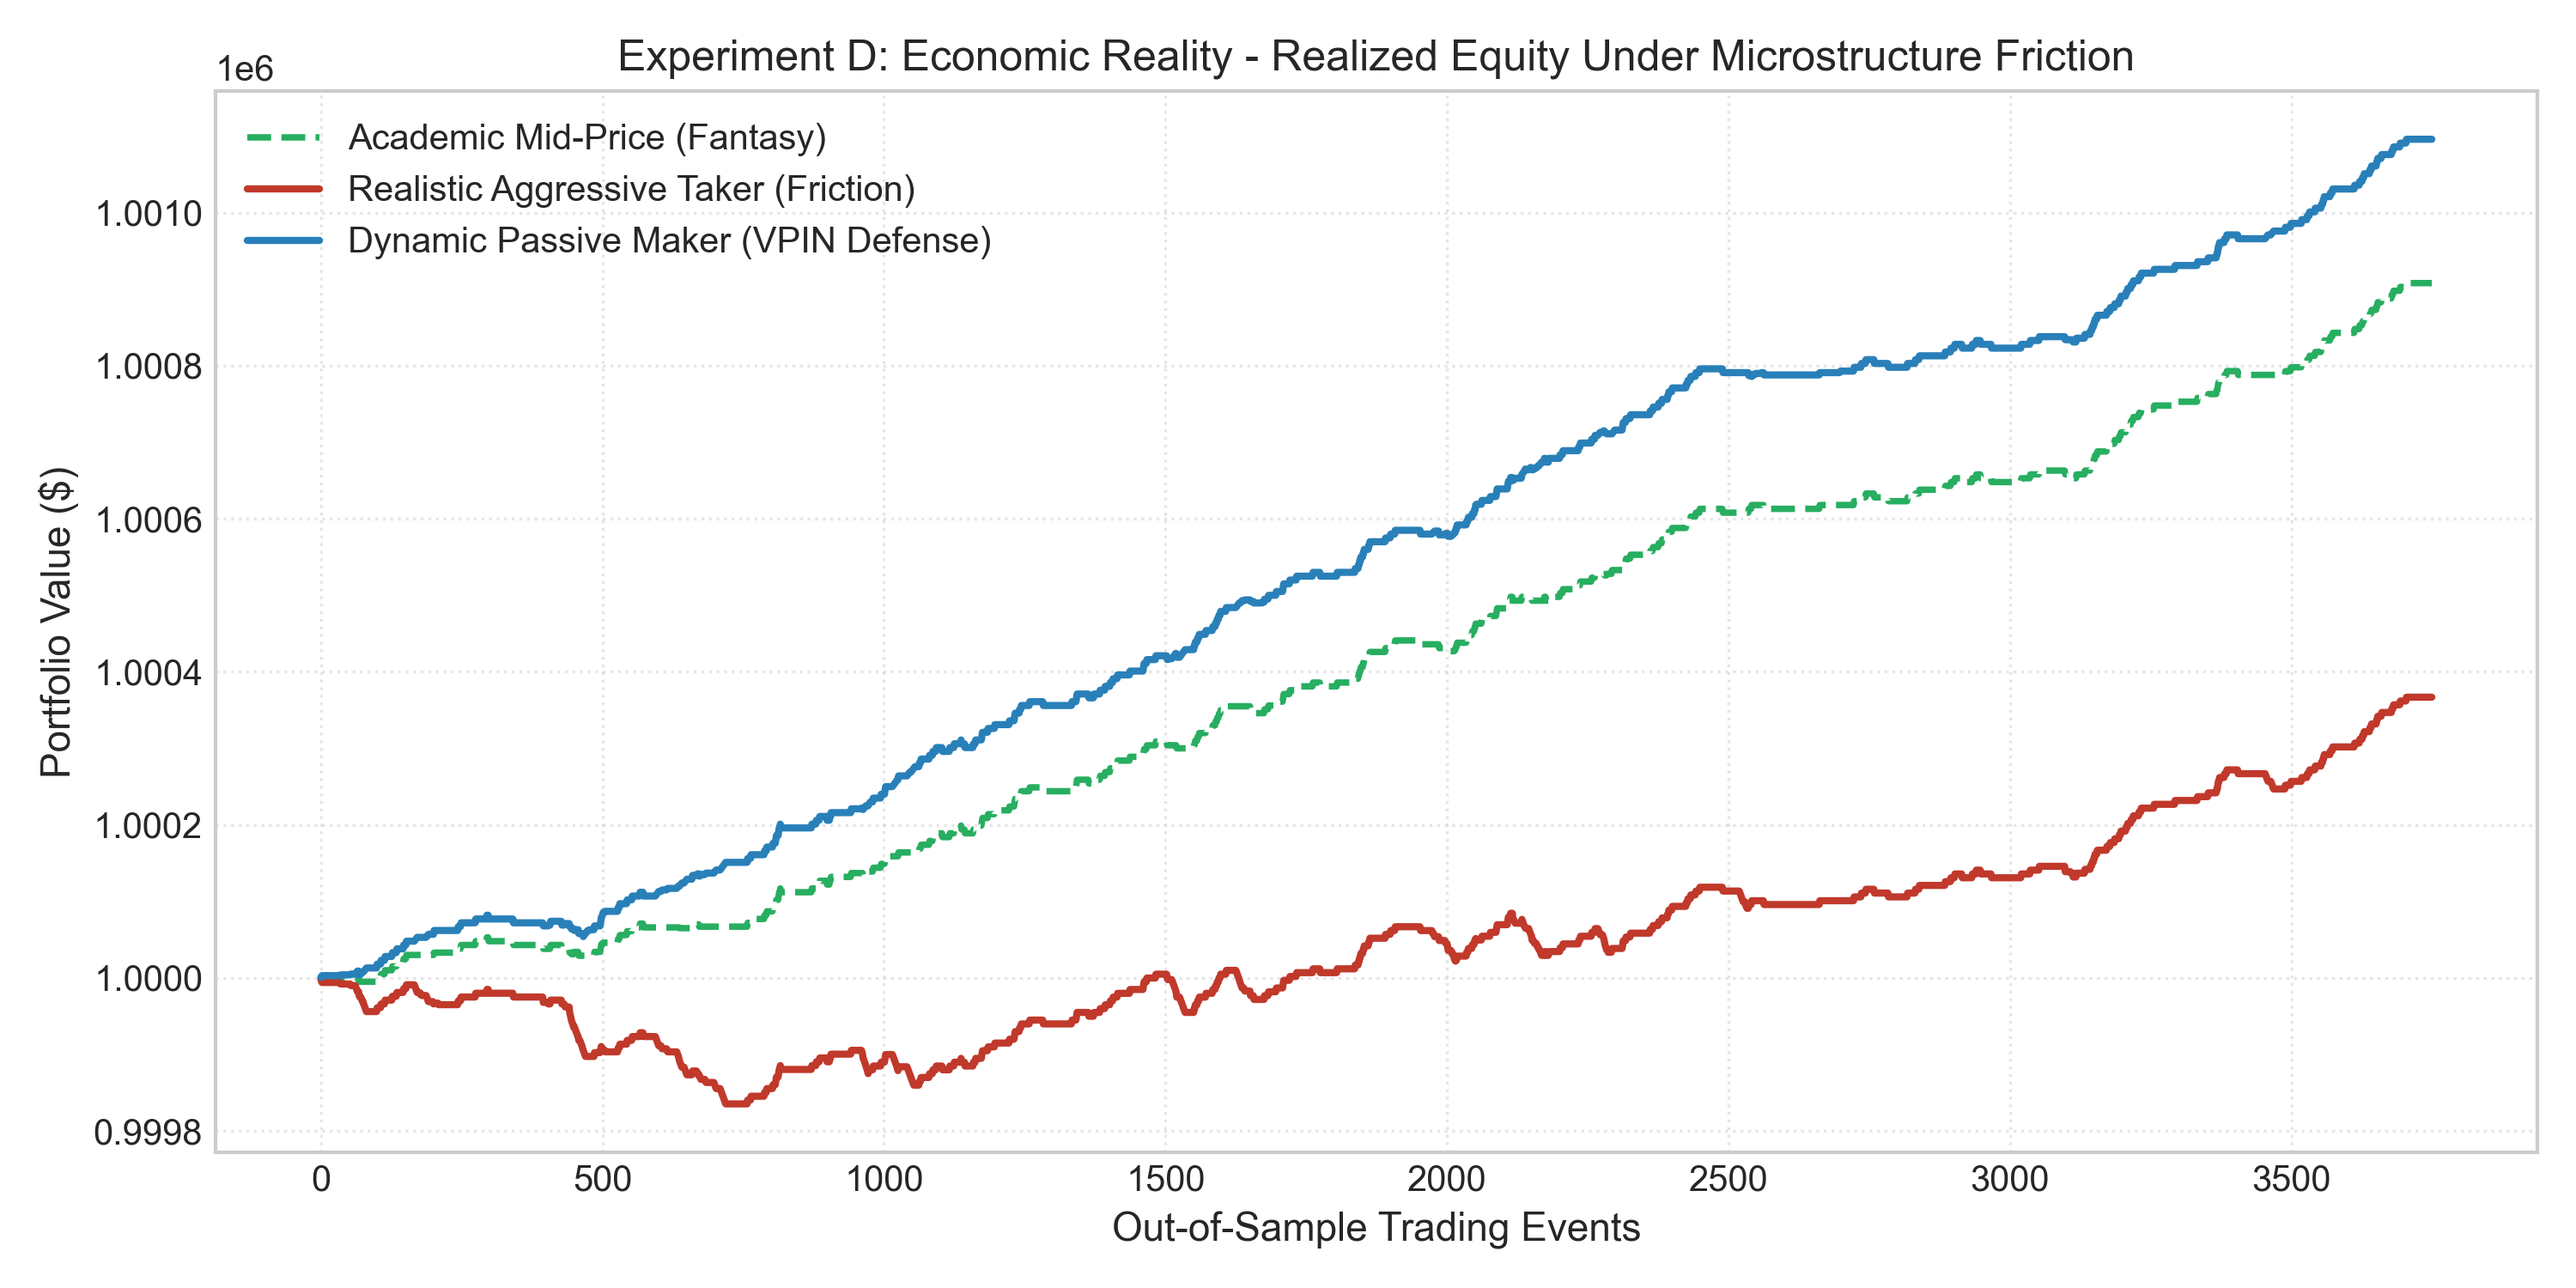
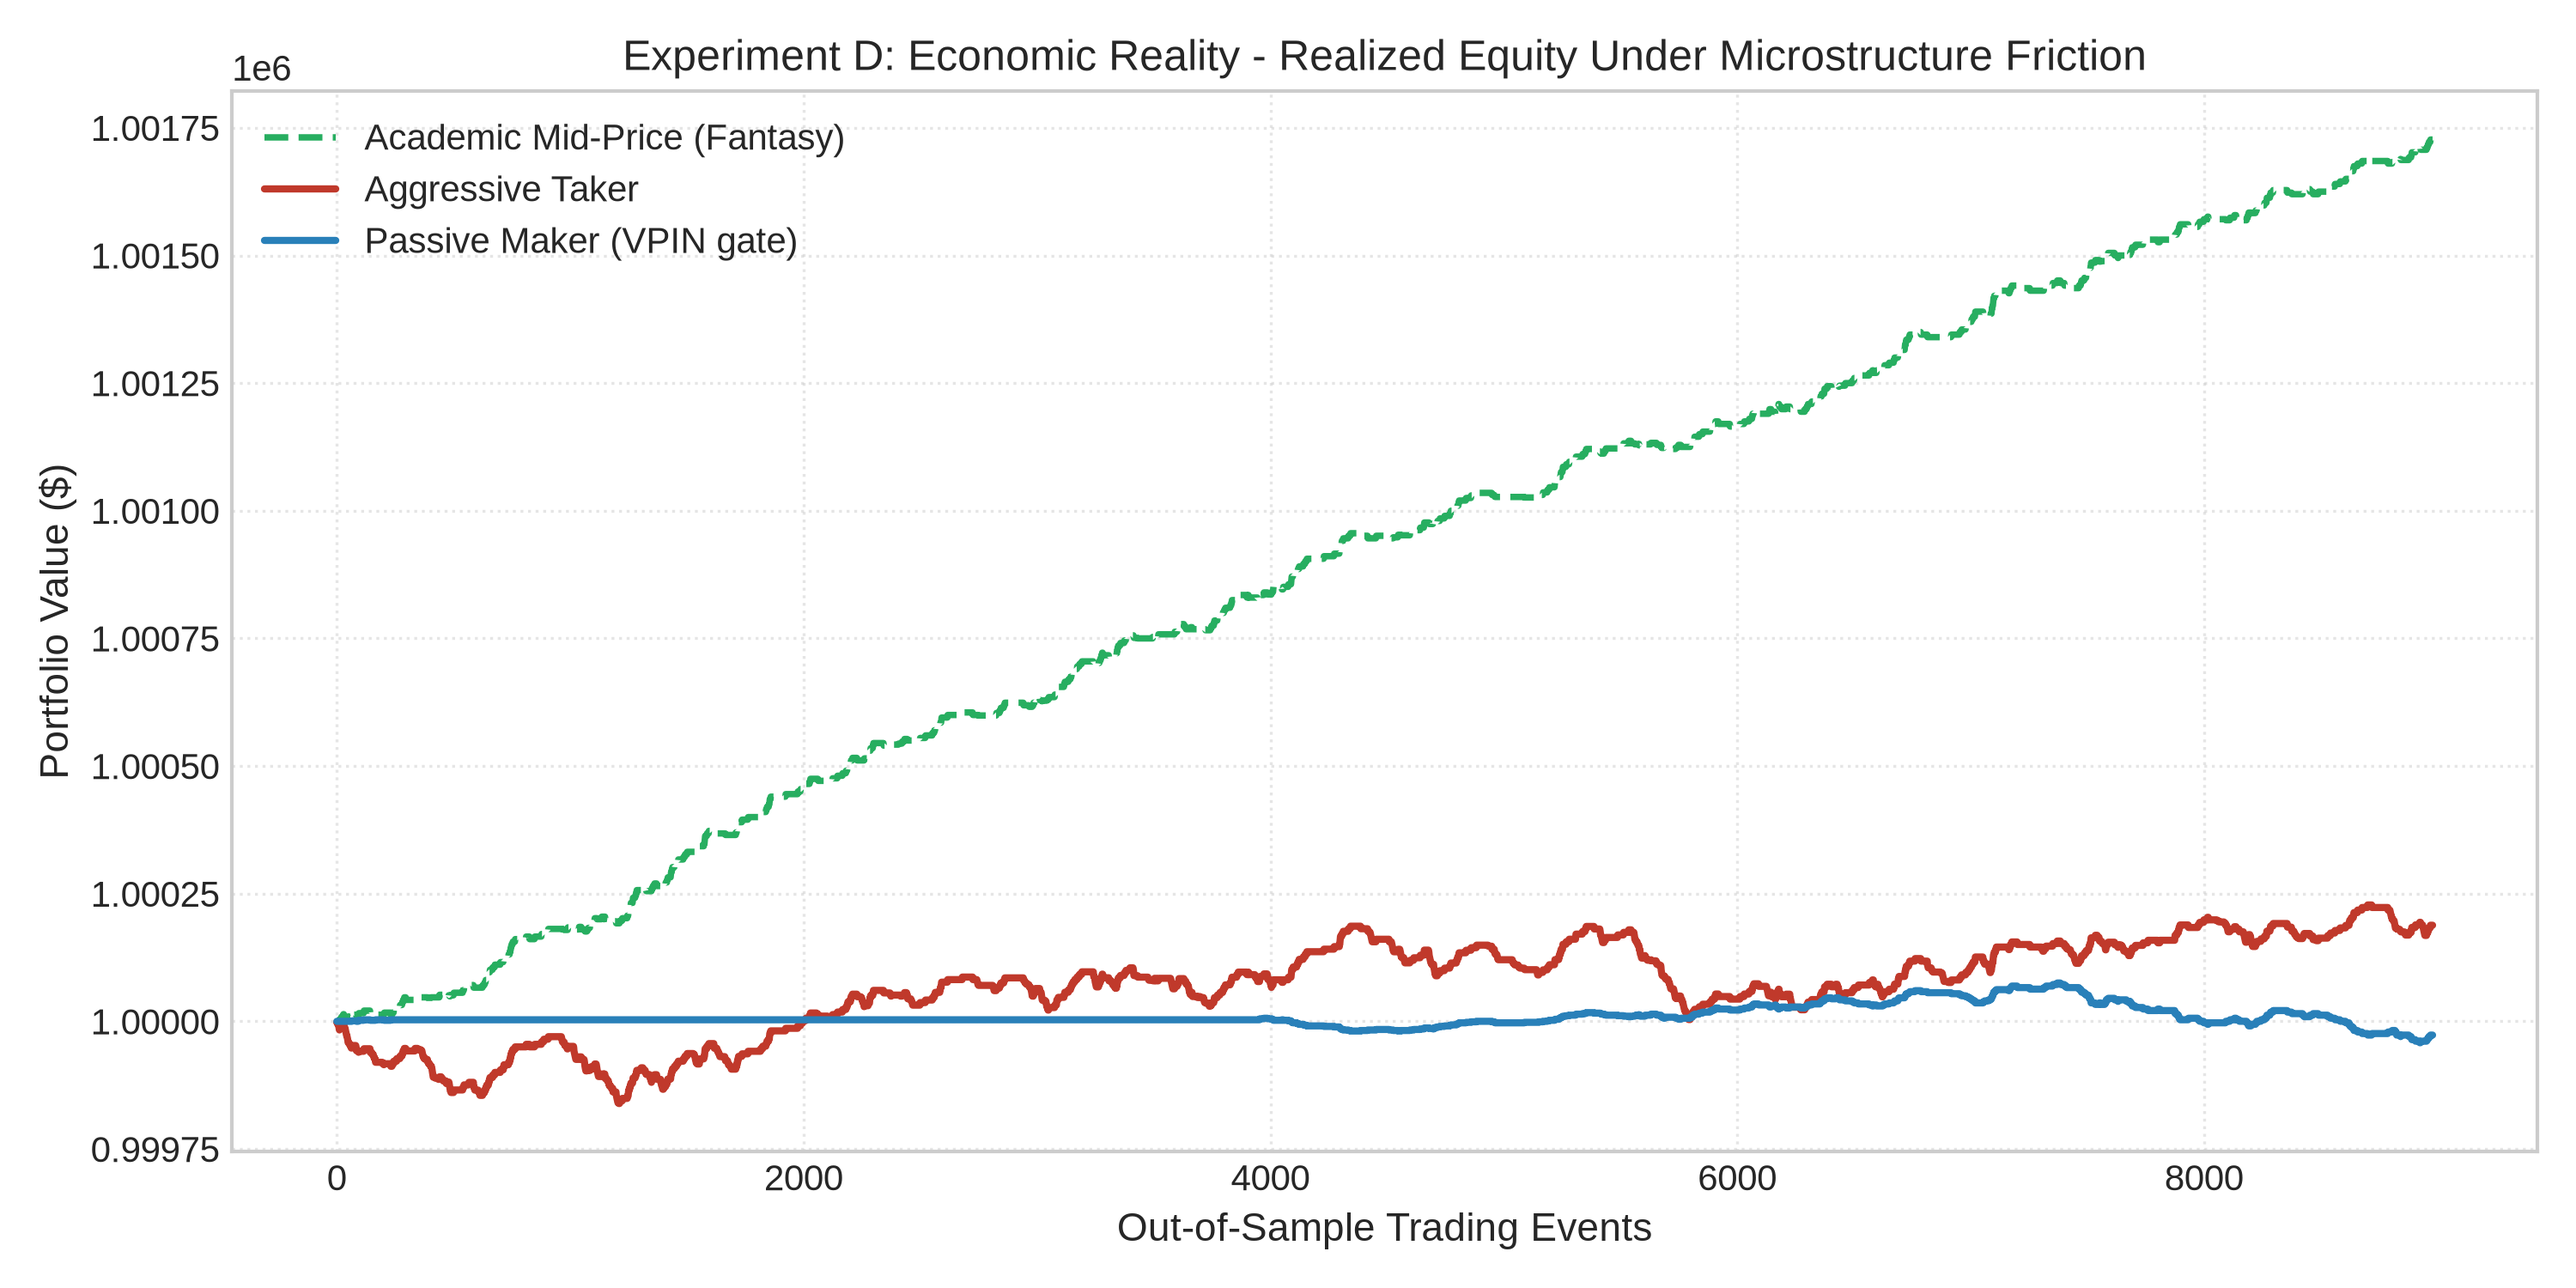
fix: regenerate Experiment D equity curves with the corrected passive-fill simulator
The old figure predated the trade-through fill fix and showed the passive
maker beating the fantasy regime. The new one is LightGBM on seed 0 and
matches the per-seed CSV (fantasy +$1,727, taker +$188, passive -$27).
Adds scripts/plot_exp_d_equity.py to redraw it on CPU.

diff --git a/scripts/plot_exp_d_equity.py b/scripts/plot_exp_d_equity.py
@@ -1,0 +1,39 @@
+"""Regenerate experiment_d_equity_curves.png with the current (fixed) simulator.
+Same LightGBM settings as Experiment A, seed 0, 60k events, k=20 (the README setup)."""
+import sys
+import numpy as np
+sys.path.insert(0, ".")
+from src.config import ARTIFACTS_DIR
+from src.experiments.common import prepare_data
+from src.experiments.common import generate_session
+from src.models.tabular_trees import LightGBMLOB
+from src.execution.simulator import ExecutionSimulator
+from src.execution.strategies import MicrostructureStrategyRunner
+from src.utils.visualization import plot_execution_equity_curves
+
+out = sys.argv[1] if len(sys.argv) > 1 else str(ARTIFACTS_DIR / "experiment_d_equity_curves.png")
+data = prepare_data(generate_session(0, 60000))
+k = 20
+y, idx, X = data.labels(k), data.splits(k), data.tab_feat
+m = LightGBMLOB(num_leaves=63, max_depth=8, learning_rate=0.05, n_estimators=200, random_state=0)
+m.fit(X[idx["train"]], y[idx["train"]], X[idx["val"]], y[idx["val"]], early_stopping_rounds=15)
+sig = m.predict(X[idx["test"]])
+
+t = idx["test"]; lob = data.session.lob_40[t]; ts = data.session.timestamps_ms[t]
+mid = (lob[:, 0] + lob[:, 2]) / 2
+vpin = X[:, data.feat_names.index("vpin")]
+thr = float(np.quantile(vpin[:data.train_end], 0.90))
+ex = data.session.exec_params
+def runner():
+    return MicrostructureStrategyRunner(ExecutionSimulator(
+        initial_cash=ex["initial_cash"], maker_fee_bps=ex["maker_fee_bps"], taker_fee_bps=ex["taker_fee_bps"],
+        lot_size=ex["lot_size"], max_inventory=ex["max_inventory"], latency_ms=ex["base_latency_ms"], timestamps_ms=ts))
+curves = {
+    "Academic Mid-Price (Fantasy)": runner().run_academic_midprice(sig, mid),
+    "Aggressive Taker": runner().run_realistic_aggressive(sig, lob),
+    "Passive Maker (VPIN gate)": runner().run_dynamic_passive_vpin(sig, lob, vpin[t], thr),
+}
+for n, r in curves.items():
+    print(f"{n:32s} net {r['equity'][-1] - ex['initial_cash']:10.1f}  trades {r['num_trades']}")
+plot_execution_equity_curves({n: r["equity"] for n, r in curves.items()}, out)
+print("saved", out)

diff --git a/README.md b/README.md
@@ -243,6 +243,9 @@ The test-set signals of the trained LightGBM and DeepLOB models from Experiment 
 Interpretation: both models lose about the same amount per millisecond of latency (≈$390–400 from 0 to 100 ms). LightGBM's advantage over DeepLOB is already present at zero latency, so it comes from better signals, not faster inference. At the measured latencies, DeepLOB's extra ~2.3 ms costs about $10 (≈$109 at 0.14 ms vs ≈$99 at 2.4 ms), which is small next to the ~$350 signal-quality gap. The drop from 0 to 0.05 ms for both models is a discretization effect: at zero latency the order fills against the very snapshot the decision was made on, while any positive latency means the next event. In seed 0 DeepLOB edges out LightGBM. The seed-to-seed spread in PnL is large compared with the means, so treat the absolute numbers as indicative.
 
 ![Experiment D Equity](artifacts/experiment_d_equity_curves.png)
+
+*Equity curves for LightGBM's signals on seed 0 (fantasy +$1,727, aggressive taker +$188, passive maker −$27 on 5 fills). Regenerate with `scripts/plot_exp_d_equity.py`.*
+
 ![Experiment D Latency](artifacts/experiment_d_latency_vs_profit.png)
 
 ---
